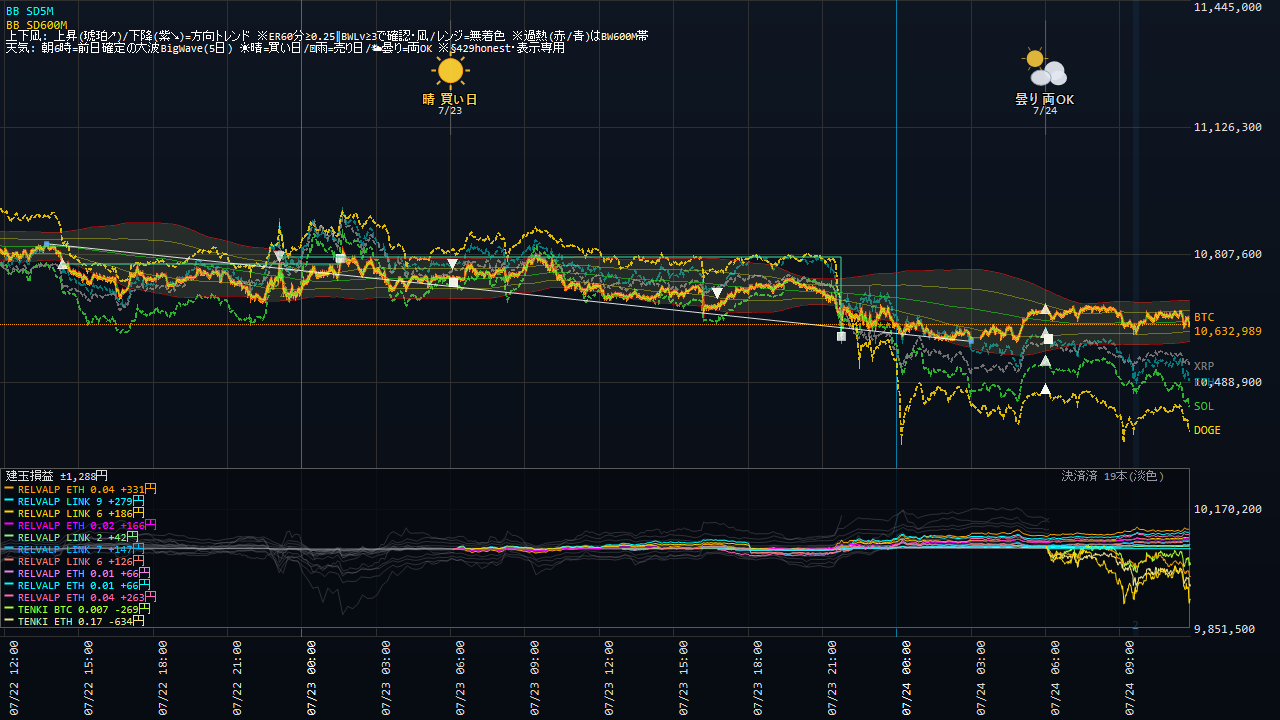
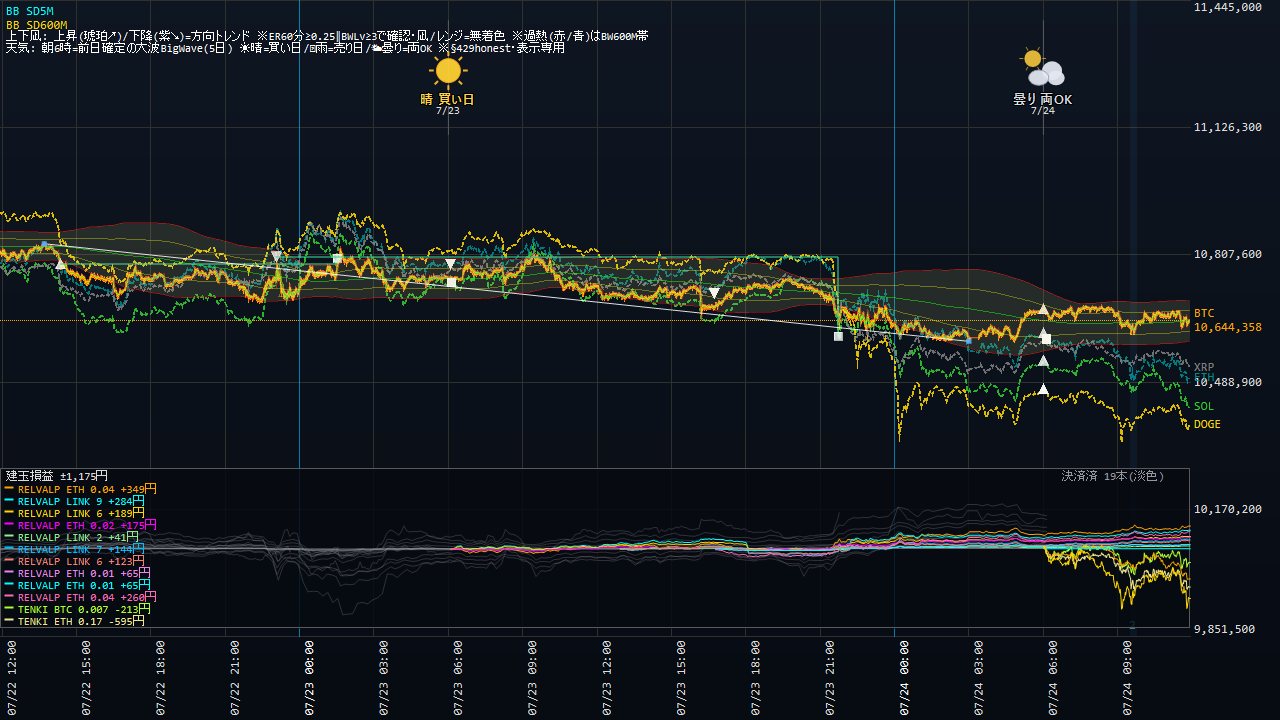
Coin100S 運用状況更新 07-24 11:59

diff --git a/coin100s-795hc4jfv8/index.html b/coin100s-795hc4jfv8/index.html
@@ -14,16 +14,16 @@ a{color:#60a5fa;text-decoration:none} a:hover{text-decoration:underline}
 .meta{color:#94a3b8;font-size:13px}</style>
 <script>setTimeout(function(){location.replace(location.pathname+"?t="+Date.now());},300000);</script></head><body>
 <h1>Coin100S ダッシュボード</h1>
-<p class="meta">スナップショット: 2026-07-24 11:52:39(自動リロード・最新化)</p>
+<p class="meta">スナップショット: 2026-07-24 11:58:39(自動リロード・最新化)</p>
 <div class="cards">
 <div class="card">建玉数<div class="v">15</div></div>
 <div class="card">本日損益<div class="v pos">+2,290円</div></div>
-<div class="card">評価損益<div class="v neg">-469円</div></div>
+<div class="card">評価損益<div class="v neg">-294円</div></div>
 </div>
 <h2>現在の建玉</h2>
-<table><tr><th>銘柄</th><th>側</th><th>数量</th><th>建値</th><th>含損益</th><th>レッグ</th></tr><tr><td>BTC_JPY</td><td>BUY</td><td>0.007</td><td>@10,672,390</td><td>-192円</td><td>TENKI5D_REV_BTC</td></tr><tr><td>DOGE_JPY</td><td>BUY</td><td>6640</td><td>@11</td><td>-791円</td><td>TENKI5D_REV_DOGE</td></tr><tr><td>DOGE_JPY</td><td>BUY</td><td>10</td><td>@11</td><td>-2円</td><td>TENKI5D_REV_DOGE</td></tr><tr><td>ETH_JPY</td><td>BUY</td><td>0.17</td><td>@309,150</td><td>-607円</td><td>TENKI5D_REV_ETH</td></tr><tr><td>ETH_JPY</td><td>SELL</td><td>0.04</td><td>@312,191</td><td>+264円</td><td>RELVALP_SELL</td></tr><tr><td>ETH_JPY</td><td>SELL</td><td>0.01</td><td>@312,191</td><td>+66円</td><td>RELVALP_SELL</td></tr><tr><td>ETH_JPY</td><td>SELL</td><td>0.01</td><td>@312,216</td><td>+66円</td><td>RELVALP_SELL</td></tr><tr><td>ETH_JPY</td><td>SELL</td><td>0.02</td><td>@314,458</td><td>+177円</td><td>RELVALP_SL700</td></tr><tr><td>ETH_JPY</td><td>SELL</td><td>0.04</td><td>@314,458</td><td>+354円</td><td>RELVALP_SELL</td></tr><tr><td>LINK_JPY</td><td>SELL</td><td>6</td><td>@1,398</td><td>+102円</td><td>RELVALP_SL700</td></tr><tr><td>LINK_JPY</td><td>SELL</td><td>7</td><td>@1,398</td><td>+119円</td><td>RELVALP_SELL</td></tr><tr><td>LINK_JPY</td><td>SELL</td><td>2</td><td>@1,398</td><td>+34円</td><td>RELVALP_SELL</td></tr><tr><td>LINK_JPY</td><td>SELL</td><td>6</td><td>@1,409</td><td>+168円</td><td>RELVALP_SL700</td></tr><tr><td>LINK_JPY</td><td>SELL</td><td>9</td><td>@1,409</td><td>+252円</td><td>RELVALP_SELL</td></tr><tr><td>SOL_JPY</td><td>BUY</td><td>3.6</td><td>@12,472</td><td>-476円</td><td>TENKI5D_REV_SOL</td></tr></table>
+<table><tr><th>銘柄</th><th>側</th><th>数量</th><th>建値</th><th>含損益</th><th>レッグ</th></tr><tr><td>BTC_JPY</td><td>BUY</td><td>0.007</td><td>@10,672,390</td><td>-144円</td><td>TENKI5D_REV_BTC</td></tr><tr><td>DOGE_JPY</td><td>BUY</td><td>6640</td><td>@11</td><td>-671円</td><td>TENKI5D_REV_DOGE</td></tr><tr><td>DOGE_JPY</td><td>BUY</td><td>10</td><td>@11</td><td>-1円</td><td>TENKI5D_REV_DOGE</td></tr><tr><td>ETH_JPY</td><td>BUY</td><td>0.17</td><td>@309,150</td><td>-594円</td><td>TENKI5D_REV_ETH</td></tr><tr><td>ETH_JPY</td><td>SELL</td><td>0.04</td><td>@312,191</td><td>+261円</td><td>RELVALP_SELL</td></tr><tr><td>ETH_JPY</td><td>SELL</td><td>0.01</td><td>@312,191</td><td>+65円</td><td>RELVALP_SELL</td></tr><tr><td>ETH_JPY</td><td>SELL</td><td>0.01</td><td>@312,216</td><td>+65円</td><td>RELVALP_SELL</td></tr><tr><td>ETH_JPY</td><td>SELL</td><td>0.02</td><td>@314,458</td><td>+176円</td><td>RELVALP_SL700</td></tr><tr><td>ETH_JPY</td><td>SELL</td><td>0.04</td><td>@314,458</td><td>+352円</td><td>RELVALP_SELL</td></tr><tr><td>LINK_JPY</td><td>SELL</td><td>6</td><td>@1,398</td><td>+102円</td><td>RELVALP_SL700</td></tr><tr><td>LINK_JPY</td><td>SELL</td><td>7</td><td>@1,398</td><td>+119円</td><td>RELVALP_SELL</td></tr><tr><td>LINK_JPY</td><td>SELL</td><td>2</td><td>@1,398</td><td>+34円</td><td>RELVALP_SELL</td></tr><tr><td>LINK_JPY</td><td>SELL</td><td>6</td><td>@1,409</td><td>+168円</td><td>RELVALP_SL700</td></tr><tr><td>LINK_JPY</td><td>SELL</td><td>9</td><td>@1,409</td><td>+252円</td><td>RELVALP_SELL</td></tr><tr><td>SOL_JPY</td><td>BUY</td><td>3.6</td><td>@12,472</td><td>-476円</td><td>TENKI5D_REV_SOL</td></tr></table>
 <p><a href="status.html"><b>▶ 運用状況の詳細(チャート・本日の取引・レジーム)</b></a></p>
 <h2>日報一覧</h2>
 <table><tr><th>取引日</th><th>実現損益</th><th>総括</th></tr><tr><td><a href='reports/20260723_Coin100S日報.html'>2026-07-23</a></td><td class="pos">+0円</td><td class='meta'>実取引: 新規8件/決済3件、実現損益 +0円。警告/孤児/エラーなし＝健全。</td></tr><tr><td><a href='reports/20260722_Coin100S日報.html'>2026-07-22</a></td><td class="pos">+0円</td><td class='meta'>実取引: 新規10件/決済5件、実現損益 +0円。シグナル却下1件（最多: BW10M3_5M／トレンド方向ゲート(N分傾き下と不一致=逆張り方向のfade禁止)）。⚠警告/エラー 9件（要確認）。</td></tr><tr><td><a href='reports/20260721_Coin100S日報.html'>2026-07-21</a></td><td class="pos">+0円</td><td class='meta'>実取引: 新規4件/決済13件、実現損益 +0円。⚠警告/エラー 13件（要確認）。</td></tr><tr><td><a href='reports/20260720_Coin100S日報.html'>2026-07-20</a></td><td class="pos">+0円</td><td class='meta'>実取引: 新規8件/決済21件、実現損益 +0円。シグナル却下8件（最多: BW10M3_5M／トレンド方向ゲート(N分傾き上と不一致=逆張り方向のfade禁止)）。⚠警告/エラー 13件（要確認）。</td></tr><tr><td><a href='reports/20260719_Coin100S日報.html'>2026-07-19</a></td><td class="pos">+0円</td><td class='meta'>実取引: 新規10件/決済7件、実現損益 +0円。⚠警告/エラー 3件（要確認）。</td></tr><tr><td><a href='reports/20260718_Coin100S日報.html'>2026-07-18</a></td><td class="pos">+0円</td><td class='meta'>実取引: 新規9件/決済8件、実現損益 +0円。警告/孤児/エラーなし＝健全。</td></tr><tr><td><a href='reports/20260717_Coin100S日報.html'>2026-07-17</a></td><td class="pos">+0円</td><td class='meta'>実取引: 新規3件/決済2件、実現損益 +0円。シグナル却下1件（最多: BW10M3_5M／トレンド方向ゲート(N分傾き下と不一致=逆張り方向のfade禁止)）。⚠警告/エラー 2件（要確認）。</td></tr><tr><td><a href='reports/20260716_Coin100S日報.html'>2026-07-16</a></td><td class="pos">+0円</td><td class='meta'>実取引: 新規0件/決済5件、実現損益 +0円。⚠警告/エラー 7件（要確認）。</td></tr><tr><td><a href='reports/20260715_Coin100S日報.html'>2026-07-15</a></td><td class="pos">+0円</td><td class='meta'>実取引: 新規6件/決済5件、実現損益 +0円。シグナル却下6件（最多: BW10M3_5M／トレンド方向ゲート(N分傾き上と不一致=逆張り方向のfade禁止)）。⚠警告/エラー 7件（要確認）。</td></tr><tr><td><a href='reports/20260714_Coin100S日報.html'>2026-07-14</a></td><td class="pos">+0円</td><td class='meta'>実取引: 新規6件/決済18件、実現損益 +0円。シグナル却下5件（最多: BW10M3_5M／トレンド方向ゲート(N分傾き上と不一致=逆張り方向のfade禁止)）。⚠警告/エラー 9件（要確認）。</td></tr><tr><td><a href='reports/20260713_Coin100S日報.html'>2026-07-13</a></td><td class="pos">+0円</td><td class='meta'>実取引: 新規5件/決済8件、実現損益 +0円。シグナル却下1件（最多: BW10M3_5M／トレンド方向ゲート(N分傾き上と不一致=逆張り方向のfade禁止)）。警告/孤児/エラーなし＝健全。</td></tr><tr><td><a href='reports/20260712_Coin100S日報.html'>2026-07-12</a></td><td class="pos">+0円</td><td class='meta'>実取引: 新規14件/決済6件、実現損益 +0円。シグナル却下5件（最多: BW10M3_5M／トレンド方向ゲート(N分傾き下と不一致=逆張り方向のfade禁止)）。⚠警告/エラー 2件（要確認）。</td></tr><tr><td><a href='reports/20260711_Coin100S日報.html'>2026-07-11</a></td><td class="pos">+0円</td><td class='meta'>実取引: 新規7件/決済6件、実現損益 +0円。⚠警告/エラー 52件（要確認）。</td></tr><tr><td><a href='reports/20260710_Coin100S日報.html'>2026-07-10</a></td><td class="pos">+0円</td><td class='meta'>実取引: 新規7件/決済6件、実現損益 +0円。シグナル却下6件（最多: BW10M3_5M／トレンド方向ゲート(N分傾き上と不一致=逆張り方向のfade禁止)）。警告/孤児/エラーなし＝健全。</td></tr><tr><td><a href='reports/20260709_Coin100S日報.html'>2026-07-09</a></td><td class="pos">+0円</td><td class='meta'>実取引: 新規8件/決済3件、実現損益 +0円。シグナル却下5件（最多: SD120M_5M／トレンド方向ゲート(N分傾き上と不一致=逆張り方向のfade禁止)）。警告/孤児/エラーなし＝健全。</td></tr><tr><td><a href='reports/20260708_Coin100S日報.html'>2026-07-08</a></td><td class="pos">+0円</td><td class='meta'>実取引: 新規2件/決済4件、実現損益 +0円。シグナル却下4件（最多: SD120M_5M／トレンド方向ゲート(N分傾き下と不一致=逆張り方向のfade禁止)）。警告/孤児/エラーなし＝健全。</td></tr><tr><td><a href='reports/20260707_Coin100S日報.html'>2026-07-07</a></td><td class="pos">+0円</td><td class='meta'>実取引: 新規8件/決済6件、実現損益 +0円。シグナル却下4件（最多: SD120M_5M／トレンド方向ゲート(N分傾き上と不一致=逆張り方向のfade禁止)）。⚠警告/エラー 258件（要確認）。</td></tr><tr><td><a href='reports/20260706_Coin100S日報.html'>2026-07-06</a></td><td class="pos">+0円</td><td class='meta'>実取引: 新規9件/決済6件、実現損益 +0円。シグナル却下9件（最多: SD120M_5M／トレンド方向ゲート(N分傾き上と不一致=逆張り方向のfade禁止)）。⚠警告/エラー 150件（要確認）。</td></tr><tr><td><a href='reports/20260705_Coin100S日報.html'>2026-07-05</a></td><td class="pos">+0円</td><td class='meta'>実取引: 新規8件/決済3件、実現損益 +0円。⚠警告/エラー 2件（要確認）。</td></tr><tr><td><a href='reports/20260704_Coin100S日報.html'>2026-07-04</a></td><td class="pos">+0円</td><td class='meta'>実取引: 新規1件/決済2件、実現損益 +0円。⚠警告/エラー 2件（要確認）。</td></tr><tr><td><a href='reports/20260703_Coin100S日報.html'>2026-07-03</a></td><td class="pos">+0円</td><td class='meta'>実取引: 新規5件/決済4件、実現損益 +0円。⚠警告/エラー 15件（要確認）。</td></tr><tr><td><a href='reports/20260702_Coin100S日報.html'>2026-07-02</a></td><td class="pos">+0円</td><td class='meta'>実取引: 新規7件/決済5件、実現損益 +0円。シグナル却下17件（最多: SD120M_5M／トレンド方向ゲート(N分傾き上と不一致=逆張り方向のfade禁止)）。⚠警告/エラー 26件（要確認）。</td></tr><tr><td><a href='reports/20260701_Coin100S日報.html'>2026-07-01</a></td><td class="pos">+0円</td><td class='meta'>実取引: 新規14件/決済8件、実現損益 +0円。シグナル却下14件（最多: SD120M_5M／ボラ軸ゲート(SDN%&amp;gt;N%=高ボラ/荒れレンジ)）。⚠警告/エラー 2件（要確認）。</td></tr><tr><td><a href='reports/20260630_Coin100S日報.html'>2026-06-30</a></td><td class="pos">+0円</td><td class='meta'>実取引: 新規0件/決済1件、実現損益 +0円。シグナル却下29件（最多: 微5M／当日枠N）。警告/孤児/エラーなし＝健全。</td></tr></table>
-<hr><p class="meta">更新: 2026-07-24 11:53:05 / 自動生成: tools/web_publish.py(§580)</p>
+<hr><p class="meta">更新: 2026-07-24 11:59:06 / 自動生成: tools/web_publish.py(§580)</p>
 </body></html>

diff --git a/coin100s-795hc4jfv8/status.html b/coin100s-795hc4jfv8/status.html
@@ -14,22 +14,22 @@ a{color:#60a5fa;text-decoration:none} a:hover{text-decoration:underline}
 .meta{color:#94a3b8;font-size:13px}</style>
 <script>setTimeout(function(){location.replace(location.pathname+"?t="+Date.now());},300000);</script></head><body>
 <h1>Coin100S 運用状況</h1>
-<p class="meta">スナップショット: 2026-07-24 11:52:39 / ページ生成: 2026-07-24 11:53:05(自動リロード・最新化) / <a href="index.html">目次へ</a></p>
+<p class="meta">スナップショット: 2026-07-24 11:58:39 / ページ生成: 2026-07-24 11:59:06(自動リロード・最新化) / <a href="index.html">目次へ</a></p>
 <div class="cards">
 <div class="card">建玉数<div class="v">15</div></div>
 <div class="card">本日損益<div class="v pos">+2,290円</div></div>
-<div class="card">評価損益<div class="v neg">-469円</div></div>
+<div class="card">評価損益<div class="v neg">-294円</div></div>
 </div>
 <h2>資産推移(直近30日)</h2>
-<img src="status_equity.png?t=1153" alt="equity">
+<img src="status_equity.png?t=1159" alt="equity">
 <h2>取引チャート(直近24h)</h2>
-<img src="status_chart.png?t=1153" alt="chart">
+<img src="status_chart.png?t=1159" alt="chart">
 <h2>建玉一覧</h2>
-<table><tr><th>銘柄</th><th>側</th><th>数量</th><th>建値</th><th>含損益</th><th>レッグ</th></tr><tr><td>BTC_JPY</td><td>BUY</td><td>0.007</td><td>@10,672,390</td><td>-192円</td><td>TENKI5D_REV_BTC</td></tr><tr><td>DOGE_JPY</td><td>BUY</td><td>6640</td><td>@11</td><td>-791円</td><td>TENKI5D_REV_DOGE</td></tr><tr><td>DOGE_JPY</td><td>BUY</td><td>10</td><td>@11</td><td>-2円</td><td>TENKI5D_REV_DOGE</td></tr><tr><td>ETH_JPY</td><td>BUY</td><td>0.17</td><td>@309,150</td><td>-607円</td><td>TENKI5D_REV_ETH</td></tr><tr><td>ETH_JPY</td><td>SELL</td><td>0.04</td><td>@312,191</td><td>+264円</td><td>RELVALP_SELL</td></tr><tr><td>ETH_JPY</td><td>SELL</td><td>0.01</td><td>@312,191</td><td>+66円</td><td>RELVALP_SELL</td></tr><tr><td>ETH_JPY</td><td>SELL</td><td>0.01</td><td>@312,216</td><td>+66円</td><td>RELVALP_SELL</td></tr><tr><td>ETH_JPY</td><td>SELL</td><td>0.02</td><td>@314,458</td><td>+177円</td><td>RELVALP_SL700</td></tr><tr><td>ETH_JPY</td><td>SELL</td><td>0.04</td><td>@314,458</td><td>+354円</td><td>RELVALP_SELL</td></tr><tr><td>LINK_JPY</td><td>SELL</td><td>6</td><td>@1,398</td><td>+102円</td><td>RELVALP_SL700</td></tr><tr><td>LINK_JPY</td><td>SELL</td><td>7</td><td>@1,398</td><td>+119円</td><td>RELVALP_SELL</td></tr><tr><td>LINK_JPY</td><td>SELL</td><td>2</td><td>@1,398</td><td>+34円</td><td>RELVALP_SELL</td></tr><tr><td>LINK_JPY</td><td>SELL</td><td>6</td><td>@1,409</td><td>+168円</td><td>RELVALP_SL700</td></tr><tr><td>LINK_JPY</td><td>SELL</td><td>9</td><td>@1,409</td><td>+252円</td><td>RELVALP_SELL</td></tr><tr><td>SOL_JPY</td><td>BUY</td><td>3.6</td><td>@12,472</td><td>-476円</td><td>TENKI5D_REV_SOL</td></tr></table>
+<table><tr><th>銘柄</th><th>側</th><th>数量</th><th>建値</th><th>含損益</th><th>レッグ</th></tr><tr><td>BTC_JPY</td><td>BUY</td><td>0.007</td><td>@10,672,390</td><td>-144円</td><td>TENKI5D_REV_BTC</td></tr><tr><td>DOGE_JPY</td><td>BUY</td><td>6640</td><td>@11</td><td>-671円</td><td>TENKI5D_REV_DOGE</td></tr><tr><td>DOGE_JPY</td><td>BUY</td><td>10</td><td>@11</td><td>-1円</td><td>TENKI5D_REV_DOGE</td></tr><tr><td>ETH_JPY</td><td>BUY</td><td>0.17</td><td>@309,150</td><td>-594円</td><td>TENKI5D_REV_ETH</td></tr><tr><td>ETH_JPY</td><td>SELL</td><td>0.04</td><td>@312,191</td><td>+261円</td><td>RELVALP_SELL</td></tr><tr><td>ETH_JPY</td><td>SELL</td><td>0.01</td><td>@312,191</td><td>+65円</td><td>RELVALP_SELL</td></tr><tr><td>ETH_JPY</td><td>SELL</td><td>0.01</td><td>@312,216</td><td>+65円</td><td>RELVALP_SELL</td></tr><tr><td>ETH_JPY</td><td>SELL</td><td>0.02</td><td>@314,458</td><td>+176円</td><td>RELVALP_SL700</td></tr><tr><td>ETH_JPY</td><td>SELL</td><td>0.04</td><td>@314,458</td><td>+352円</td><td>RELVALP_SELL</td></tr><tr><td>LINK_JPY</td><td>SELL</td><td>6</td><td>@1,398</td><td>+102円</td><td>RELVALP_SL700</td></tr><tr><td>LINK_JPY</td><td>SELL</td><td>7</td><td>@1,398</td><td>+119円</td><td>RELVALP_SELL</td></tr><tr><td>LINK_JPY</td><td>SELL</td><td>2</td><td>@1,398</td><td>+34円</td><td>RELVALP_SELL</td></tr><tr><td>LINK_JPY</td><td>SELL</td><td>6</td><td>@1,409</td><td>+168円</td><td>RELVALP_SL700</td></tr><tr><td>LINK_JPY</td><td>SELL</td><td>9</td><td>@1,409</td><td>+252円</td><td>RELVALP_SELL</td></tr><tr><td>SOL_JPY</td><td>BUY</td><td>3.6</td><td>@12,472</td><td>-476円</td><td>TENKI5D_REV_SOL</td></tr></table>
 <h2>実現決済履歴(直近15件・OrderId単位)</h2>
 <table><tr><th>決済時刻</th><th>レッグ</th><th>銘柄</th><th>実現損益</th></tr><tr><td>07-24 06:08</td><td>RELVALP_SELL</td><td>XRP</td><td class="pos">+140円</td></tr><tr><td>07-24 06:08</td><td>RELVALP_SELL</td><td>XRP</td><td class="pos">+511円</td></tr><tr><td>07-24 06:08</td><td>RELVALP_SELL</td><td>ADA</td><td class="pos">+451円</td></tr><tr><td>07-24 06:08</td><td>RELVALP_SL700</td><td>ADA</td><td class="pos">+222円</td></tr><tr><td>07-24 06:08</td><td>RELVALP_SELL</td><td>XRP</td><td class="pos">+298円</td></tr><tr><td>07-24 06:08</td><td>RELVALP_SL700</td><td>XRP</td><td class="pos">+329円</td></tr><tr><td>07-24 06:08</td><td>RELVALP_SL700</td><td>ADA</td><td class="pos">+64円</td></tr><tr><td>07-24 06:08</td><td>RELVALP_SELL</td><td>XRP</td><td class="pos">+32円</td></tr><tr><td>07-24 06:08</td><td>RELVALP_SELL</td><td>ADA</td><td class="pos">+112円</td></tr><tr><td>07-24 06:08</td><td>RELVALP_SL700</td><td>XRP</td><td class="pos">+131円</td></tr><tr><td>07-23 21:46</td><td>SIGFADE_SOL</td><td>SOL</td><td class="pos">+557円</td></tr><tr><td>07-23 06:08</td><td>RELVALP_SELL</td><td>SOL</td><td class="neg">-67円</td></tr><tr><td>07-23 06:08</td><td>RELVALP_SL700</td><td>SOL</td><td class="neg">-21円</td></tr><tr><td>07-23 01:34</td><td>SIGFADE_BTC</td><td>BTC</td><td class="pos">+27円</td></tr><tr><td>07-22 09:08</td><td>SIGFADE_SOL</td><td>SOL</td><td class="pos">+220円</td></tr></table>
 <!-- §799c 「本取引日の実取引(6:00起点)」テーブルは公開ページから削除(ユーザー指示2026-07-15・数量/指値まで晒す情報漏れ)。建玉/実現損益は許可・実発注の生取引明細は非公開 -->
 <h2>現在レジーム(3軸・§570c)</h2>
-<ul><li>アルト対BTC 5日: <b>-57bps</b>(アルト劣後=RELVAL順風)</li><li>BTC ER240m: <b>0.040</b>(閾値0.25→レンジ(fade順風/BWTRD逆風))</li><li>BTC実現ボラ240m: <b>3.70</b> bps/分</li></ul>
+<ul><li>アルト対BTC 5日: <b>-57bps</b>(アルト劣後=RELVAL順風)</li><li>BTC ER240m: <b>0.029</b>(閾値0.25→レンジ(fade順風/BWTRD逆風))</li><li>BTC実現ボラ240m: <b>3.71</b> bps/分</li></ul>
 <hr><p class="meta">自動生成: tools/web_publish.py(§580・読み取り専用)。売買判断はアプリ本体。</p>
 </body></html>
